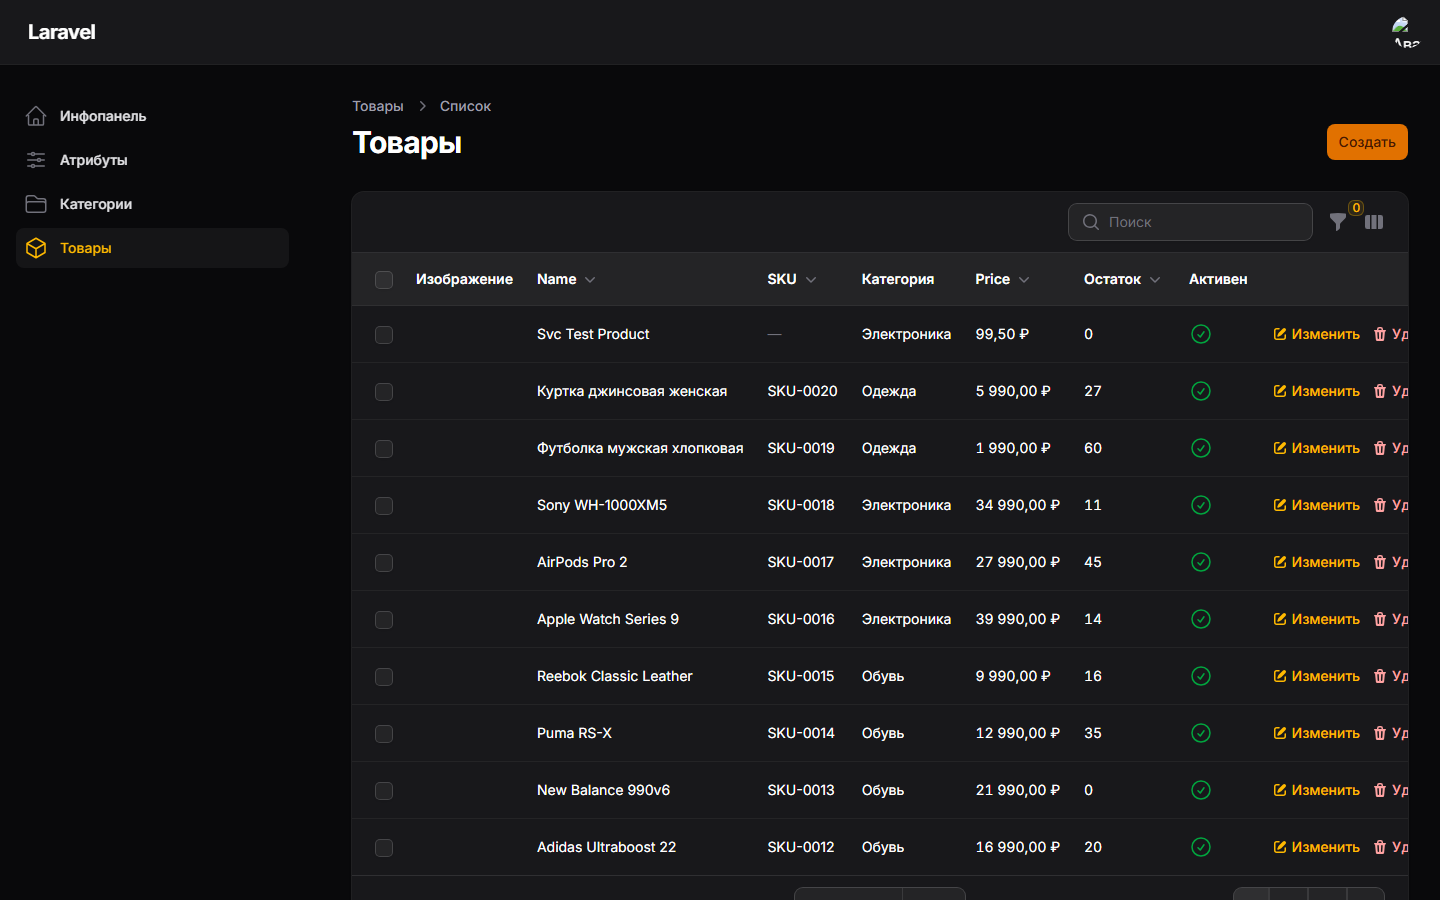
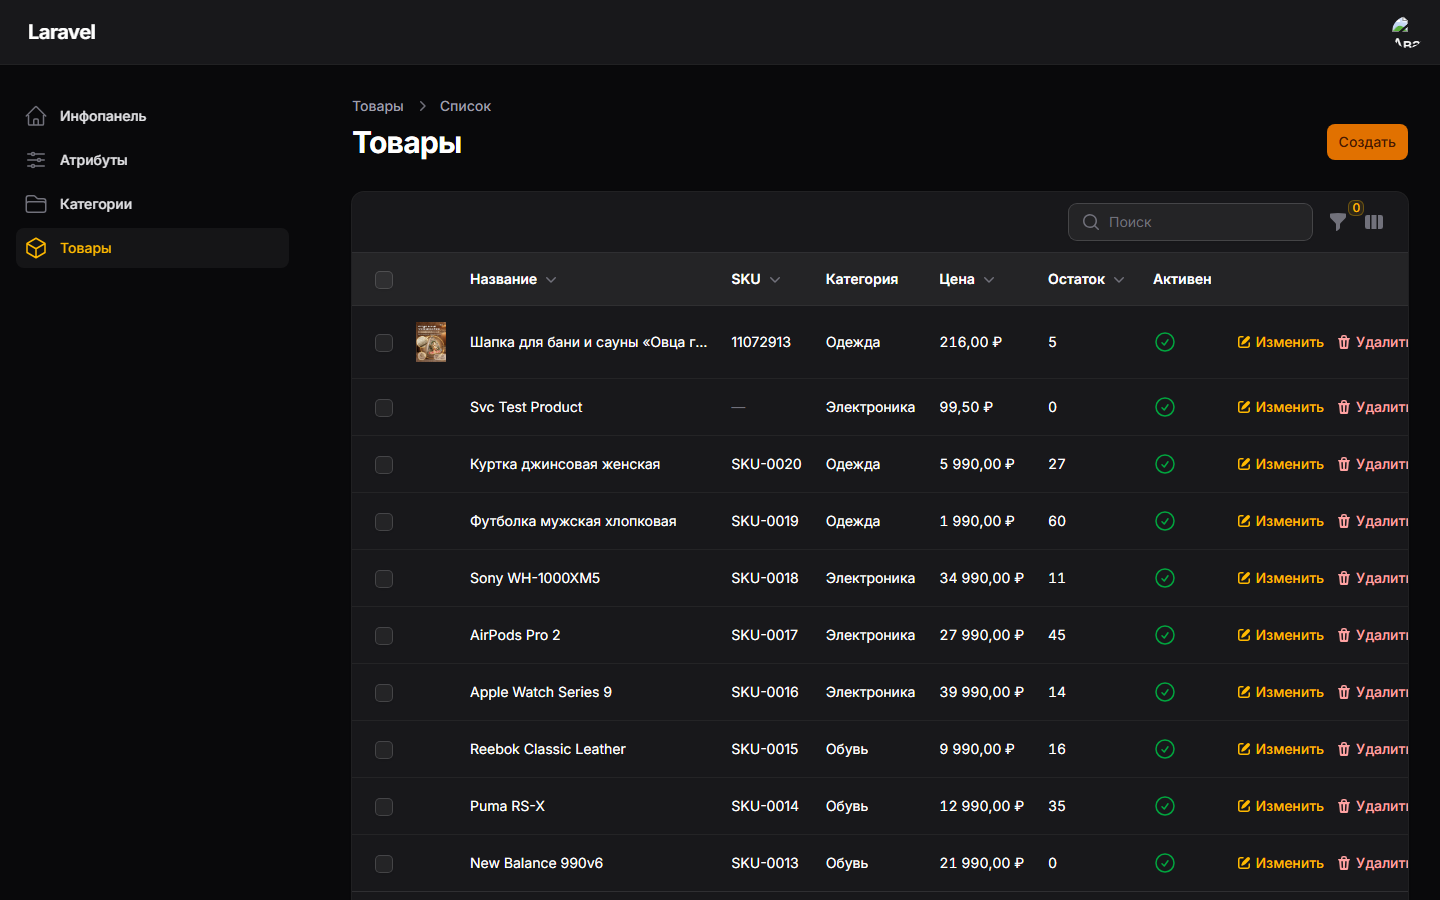
feat: persist product images, ru labels, compact products table

diff --git a/tests/Feature/ProductImagesTest.php b/tests/Feature/ProductImagesTest.php
@@ -1,0 +1,109 @@
+<?php
+
+namespace Tests\Feature;
+
+use App\DTO\ProductDTO;
+use App\Models\Product;
+use App\Repositories\ProductRepository;
+use App\Services\ProductService;
+use Illuminate\Foundation\Testing\RefreshDatabase;
+use Illuminate\Support\Facades\Storage;
+use Illuminate\Validation\ValidationException;
+use Tests\TestCase;
+
+class ProductImagesTest extends TestCase
+{
+    use RefreshDatabase;
+
+    private ProductService $service;
+
+    protected function setUp(): void
+    {
+        parent::setUp();
+
+        $this->seed();
+
+        $this->service = new ProductService(new ProductRepository);
+
+        Storage::fake('public');
+    }
+
+    /**
+     * @throws ValidationException
+     */
+    public function test_create_product_persists_images(): void
+    {
+        Storage::disk('public')->put('products/first.jpg', 'img-1');
+        Storage::disk('public')->put('products/second.jpg', 'img-2');
+
+        $product = $this->service->create(new ProductDTO(
+            name: 'Товар с фото',
+            price: '100.00',
+            images: ['products/first.jpg', 'products/second.jpg'],
+        ));
+
+        $this->assertSame(['products/first.jpg', 'products/second.jpg'], $product->fresh()->images);
+        $this->assertTrue(Storage::disk('public')->exists('products/first.jpg'));
+        $this->assertTrue(Storage::disk('public')->exists('products/second.jpg'));
+    }
+
+    /**
+     * @throws ValidationException
+     */
+    public function test_update_product_replaces_images(): void
+    {
+        Storage::disk('public')->put('products/old.jpg', 'img-old');
+        Storage::disk('public')->put('products/new.jpg', 'img-new');
+
+        $product = $this->service->create(new ProductDTO(
+            name: 'Товар',
+            images: ['products/old.jpg'],
+        ));
+
+        $this->service->update($product, new ProductDTO(name: 'Товар', images: ['products/new.jpg']));
+
+        $this->assertSame(['products/new.jpg'], $product->fresh()->images);
+        $this->assertFalse(Storage::disk('public')->exists('products/old.jpg'));
+        $this->assertTrue(Storage::disk('public')->exists('products/new.jpg'));
+    }
+
+    /**
+     * @throws ValidationException
+     */
+    public function test_update_product_removes_all_images(): void
+    {
+        Storage::disk('public')->put('products/one.jpg', 'img');
+        Storage::disk('public')->put('products/two.jpg', 'img');
+
+        $product = $this->service->create(new ProductDTO(
+            name: 'Товар',
+            images: ['products/one.jpg', 'products/two.jpg'],
+        ));
+
+        $this->service->update($product, new ProductDTO(name: 'Товар', images: []));
+
+        $this->assertSame([], $product->fresh()->images);
+        $this->assertFalse(Storage::disk('public')->exists('products/one.jpg'));
+        $this->assertFalse(Storage::disk('public')->exists('products/two.jpg'));
+    }
+
+    /**
+     * @throws ValidationException
+     */
+    public function test_delete_product_removes_images(): void
+    {
+        Storage::disk('public')->put('products/a.jpg', 'img');
+        Storage::disk('public')->put('products/b.jpg', 'img');
+
+        $product = $this->service->create(new ProductDTO(
+            name: 'Товар',
+            images: ['products/a.jpg', 'products/b.jpg'],
+        ));
+
+        $this->service->delete($product);
+
+        $this->assertNull(Product::query()->find($product->id));
+        $this->assertFalse(Storage::disk('public')->exists('products/a.jpg'));
+        $this->assertFalse(Storage::disk('public')->exists('products/b.jpg'));
+    }
+}

diff --git a/app/Repositories/ProductRepository.php b/app/Repositories/ProductRepository.php
@@ -5,6 +5,7 @@ namespace App\Repositories;
 use App\Models\Product;
 use Illuminate\Contracts\Pagination\LengthAwarePaginator;
 use Illuminate\Database\Eloquent\Collection;
+use Illuminate\Support\Facades\Storage;
 
 class ProductRepository
 {
@@ -79,10 +80,18 @@ class ProductRepository
         $attributes = $data['attributes'] ?? null;
         unset($data['attributes']);
 
+        $previousImages = $this->imagesOf($product);
+
         $product->update($data);
 
         if ($attributes !== null) {
             $this->syncAttributes($product, $attributes);
+        }
+
+        $removed = array_diff($previousImages, $this->imagesOf($product));
+
+        if ($removed !== []) {
+            $this->deleteImageFiles(array_values($removed));
         }
 
         return $product;
@@ -90,7 +99,13 @@ class ProductRepository
 
     public function delete(Product $product): void
     {
+        $images = $this->imagesOf($product);
+
         $product->delete();
+
+        if ($images !== []) {
+            $this->deleteImageFiles($images);
+        }
     }
 
     /**
@@ -105,6 +120,30 @@ class ProductRepository
         }
 
         $product->attributes()->sync($pivot);
+    }
+
+    /**
+     * @return array<string>
+     */
+    private function imagesOf(Product $product): array
+    {
+        $images = $product->images;
+
+        return is_array($images) ? $images : [];
+    }
+
+    /**
+     * @param  array<string>  $paths
+     */
+    private function deleteImageFiles(array $paths): void
+    {
+        $disk = Storage::disk('public');
+
+        foreach ($paths as $path) {
+            if ($disk->exists($path)) {
+                $disk->delete($path);
+            }
+        }
     }
 
     /**

diff --git a/app/Filament/Resources/Products/Tables/ProductsTable.php b/app/Filament/Resources/Products/Tables/ProductsTable.php
@@ -24,10 +24,13 @@ class ProductsTable
             ->searchable(['name', 'sku'])
             ->columns([
                 ImageColumn::make('images')
-                    ->label('Изображение')
+                    ->label('')
                     ->disk('public')
-                    ->limit(2),
+                    ->limit(1),
                 TextColumn::make('name')
+                    ->label('Название')
+                    ->limit(30)
+                    ->tooltip(fn (string $state): string => $state)
                     ->searchable()
                     ->sortable(),
                 TextColumn::make('sku')
@@ -40,6 +43,7 @@ class ProductsTable
                     ->placeholder('—')
                     ->searchable(),
                 TextColumn::make('price')
+                    ->label('Цена')
                     ->money('RUB')
                     ->sortable(),
                 TextColumn::make('stock')
@@ -55,6 +59,7 @@ class ProductsTable
                     ->sortable()
                     ->toggleable(isToggledHiddenByDefault: true),
                 TextColumn::make('updated_at')
+                    ->label('Обновлён')
                     ->dateTime()
                     ->sortable()
                     ->toggleable(isToggledHiddenByDefault: true),

diff --git a/app/Filament/Resources/Attributes/Tables/AttributesTable.php b/app/Filament/Resources/Attributes/Tables/AttributesTable.php
@@ -16,16 +16,21 @@ class AttributesTable
         return $table
             ->columns([
                 TextColumn::make('name')
+                    ->label('Название')
                     ->searchable(),
                 TextColumn::make('type')
+                    ->label('Тип')
                     ->searchable(),
                 IconColumn::make('is_required')
+                    ->label('Обязательный')
                     ->boolean(),
                 TextColumn::make('created_at')
+                    ->label('Создан')
                     ->dateTime()
                     ->sortable()
                     ->toggleable(isToggledHiddenByDefault: true),
                 TextColumn::make('updated_at')
+                    ->label('Обновлён')
                     ->dateTime()
                     ->sortable()
                     ->toggleable(isToggledHiddenByDefault: true),

diff --git a/app/Filament/Resources/Products/Schemas/ProductForm.php b/app/Filament/Resources/Products/Schemas/ProductForm.php
@@ -21,6 +21,7 @@ class ProductForm
         return $schema
             ->components([
                 TextInput::make('name')
+                    ->label('Название')
                     ->required()
                     ->maxLength(255),
                 TextInput::make('sku')
@@ -68,6 +69,7 @@ class ProductForm
                     ->label('Описание')
                     ->columnSpanFull(),
                 TextInput::make('price')
+                    ->label('Цена')
                     ->required()
                     ->numeric()
                     ->prefix('₽'),

diff --git a/app/Filament/Resources/Categories/Tables/CategoriesTable.php b/app/Filament/Resources/Categories/Tables/CategoriesTable.php
@@ -30,10 +30,12 @@ class CategoriesTable
                     ->label('Порядок')
                     ->sortable(),
                 TextColumn::make('created_at')
+                    ->label('Создан')
                     ->dateTime()
                     ->sortable()
                     ->toggleable(isToggledHiddenByDefault: true),
                 TextColumn::make('updated_at')
+                    ->label('Обновлён')
                     ->dateTime()
                     ->sortable()
                     ->toggleable(isToggledHiddenByDefault: true),

diff --git a/app/Models/Product.php b/app/Models/Product.php
@@ -24,7 +24,7 @@ use Illuminate\Support\Carbon;
  * @property-read Category|null $category
  * @property-read Collection<int, Attribute> $attributes
  */
-#[Fillable(['name', 'sku', 'category_id', 'description', 'price', 'stock', 'is_active'])]
+#[Fillable(['name', 'sku', 'category_id', 'description', 'images', 'price', 'stock', 'is_active'])]
 class Product extends Model
 {
     /**

diff --git a/app/Filament/Resources/Categories/Schemas/CategoryForm.php b/app/Filament/Resources/Categories/Schemas/CategoryForm.php
@@ -14,6 +14,7 @@ class CategoryForm
         return $schema
             ->components([
                 TextInput::make('name')
+                    ->label('Название')
                     ->required()
                     ->maxLength(255),
                 Select::make('parent_id')

diff --git a/app/Filament/Resources/Attributes/Schemas/AttributeForm.php b/app/Filament/Resources/Attributes/Schemas/AttributeForm.php
@@ -16,6 +16,7 @@ class AttributeForm
         return $schema
             ->components([
                 TextInput::make('name')
+                    ->label('Название')
                     ->required()
                     ->maxLength(255),
                 Select::make('type')
